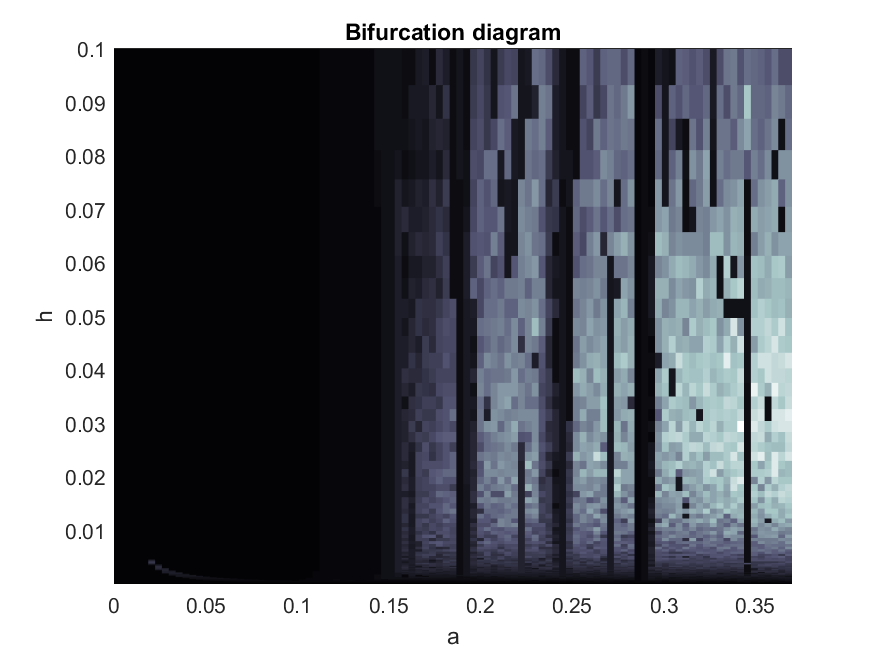
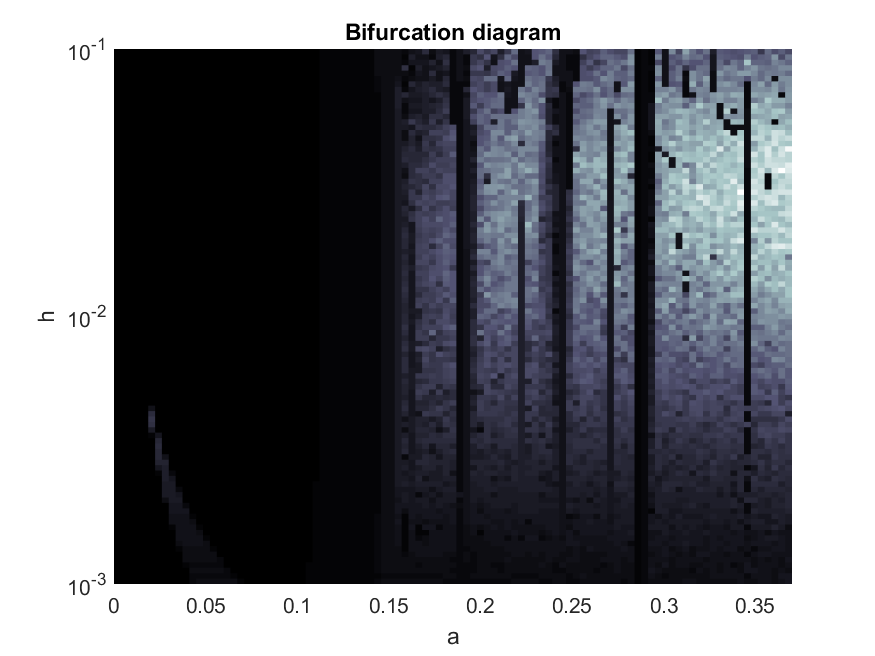
lab5

diff --git a/Non-linear Dynamic Systems Modeling/lab5/lab5/lab5_bd.m b/Non-linear Dynamic Systems Modeling/lab5/lab5/lab5_bd.m
@@ -23,7 +23,7 @@ c_min = 1;
 c_max = 10;
 c_step = (c_max - c_min) / (num_of_p_points - 1);
 
-min_h_pow = -4;
+min_h_pow = -3;
 max_h_pow = -1;
 h_pow_step = (max_h_pow - min_h_pow) / (num_of_p_points - 1);
 
@@ -34,74 +34,74 @@ a_array = a_min : a_step : a_max;
 b_array = b_min : b_step : b_max;
 c_array = c_min : c_step : c_max;
 
-
-figures = cell(length(funs), 1);
-
-for m = 1 : length(funs)
-    fun = funs{m};
-    
-    BIF = zeros(length(a_array), length(b_array));
-    for i = 1 : length(a_array)
-        for j = 1 : length(b_array)
-            n = max_time / h;
-            X = fun(X0, n, h, a_array(i), b_array(j), c);
-            start_index = round(9 * length(X) / 10);
-            pks = findpeaks(X(start_index:length(X), 1));
-            if (~isempty(pks))
-                BIF(i,j) = max(dbscan(pks, 0.1, 1));    % Number of clusters. If no peaks, then 0
-            end
-        end
-    end
-    
-    figure
-    s = pcolor(a_array, b_array, BIF');
-    xlabel('a')
-    ylabel('b')
-    title('Bifurcation diagram')
-    s.EdgeColor = 'none';
-    colormap('bone')
-
-    figures{m} = gcf;
-end
-
-saveas(figures{1}, 'bif_euler_ab.png')
-saveas(figures{2}, 'bif_midpoint_ab.png')
-saveas(figures{3}, 'bif_cd_ab.png')
-
-
-figures = cell(length(funs), 1);
-
-for m = 1 : length(funs)
-    fun = funs{m};
-    
-    BIF = zeros(length(a_array), length(c_array));
-    for i = 1 : length(a_array)
-        for j = 1 : length(c_array)
-            n = max_time / h;
-            X = fun(X0, n, h, a_array(i), b, c_array(j));
-            start_index = round(9 * length(X) / 10);
-            pks = findpeaks(X(start_index:length(X), 1));
-            if (~isempty(pks))
-                BIF(i,j) = max(dbscan(pks, 0.1, 1));    % Number of clusters. If no peaks, then 0
-            end
-        end
-    end
-    
-    figure
-    s = pcolor(a_array, c_array, BIF');
-    xlabel('a')
-    ylabel('c')
-    title('Bifurcation diagram')
-    s.EdgeColor = 'none';
-    colormap('bone')
-
-    figures{m} = gcf;
-end
-
-saveas(figures{1}, 'bif_euler_ac.png')
-saveas(figures{2}, 'bif_midpoint_ac.png')
-saveas(figures{3}, 'bif_cd_ac.png')
-
+% 
+% figures = cell(length(funs), 1);
+% 
+% for m = 1 : length(funs)
+%     fun = funs{m};
+% 
+%     BIF = zeros(length(a_array), length(b_array));
+%     for i = 1 : length(a_array)
+%         for j = 1 : length(b_array)
+%             n = max_time / h;
+%             X = fun(X0, n, h, a_array(i), b_array(j), c);
+%             start_index = round(9 * length(X) / 10);
+%             pks = findpeaks(X(start_index:length(X), 1));
+%             if (~isempty(pks))
+%                 BIF(i,j) = max(dbscan(pks, 0.1, 1));    % Number of clusters. If no peaks, then 0
+%             end
+%         end
+%     end
+% 
+%     figure
+%     s = pcolor(a_array, b_array, BIF');
+%     xlabel('a')
+%     ylabel('b')
+%     title('Bifurcation diagram')
+%     s.EdgeColor = 'none';
+%     colormap('bone')
+% 
+%     figures{m} = gcf;
+% end
+% 
+% saveas(figures{1}, 'bif_euler_ab.png')
+% saveas(figures{2}, 'bif_midpoint_ab.png')
+% saveas(figures{3}, 'bif_cd_ab.png')
+% 
+% 
+% figures = cell(length(funs), 1);
+% 
+% for m = 1 : length(funs)
+%     fun = funs{m};
+% 
+%     BIF = zeros(length(a_array), length(c_array));
+%     for i = 1 : length(a_array)
+%         for j = 1 : length(c_array)
+%             n = max_time / h;
+%             X = fun(X0, n, h, a_array(i), b, c_array(j));
+%             start_index = round(9 * length(X) / 10);
+%             pks = findpeaks(X(start_index:length(X), 1));
+%             if (~isempty(pks))
+%                 BIF(i,j) = max(dbscan(pks, 0.1, 1));    % Number of clusters. If no peaks, then 0
+%             end
+%         end
+%     end
+% 
+%     figure
+%     s = pcolor(a_array, c_array, BIF');
+%     xlabel('a')
+%     ylabel('c')
+%     title('Bifurcation diagram')
+%     s.EdgeColor = 'none';
+%     colormap('bone')
+% 
+%     figures{m} = gcf;
+% end
+% 
+% saveas(figures{1}, 'bif_euler_ac.png')
+% saveas(figures{2}, 'bif_midpoint_ac.png')
+% saveas(figures{3}, 'bif_cd_ac.png')
+% 
 
 figures = cell(length(funs), 1);
 
@@ -125,6 +125,7 @@ for m = 1 : length(funs)
     s = pcolor(a_array, h_array, BIF');
     xlabel('a')
     ylabel('h')
+    yscale('log')
     title('Bifurcation diagram')
     s.EdgeColor = 'none';
     colormap('bone')

diff --git a/Non-linear Dynamic Systems Modeling/lab5/lab5/lab5_lle.m b/Non-linear Dynamic Systems Modeling/lab5/lab5/lab5_lle.m
@@ -27,7 +27,7 @@ c_min = 1;
 c_max = 10;
 c_step = (c_max - c_min) / (num_of_p_points - 1);
 
-min_h_pow = -4;
+min_h_pow = -3;
 max_h_pow = -1;
 h_pow_step = (max_h_pow - min_h_pow) / (num_of_p_points - 1);
 
@@ -68,33 +68,33 @@ c_array = c_min : c_step : c_max;
 % saveas(figures{3}, 'lle_cd_ab.png')
 
 
-figures = cell(length(funs), 1);
-
-for m = 1 : length(funs)
-    fun = funs{m};
-    
-    LLE = zeros(length(a_array), length(c_array));
-    for i = 1 : length(a_array)
-        for j = 1 : length(c_array)
-            lle = find_lle(h, x, max_time, interval_time, eps, fun, a_array(i), b, c_array(j));
-            LLE(i,j) = lle;
-        end
-    end
-    
-    figure
-    s = pcolor(a_array, c_array, LLE');
-    xlabel('a')
-    ylabel('c')
-    title('LLE')
-    s.EdgeColor = 'none';
-    colormap('bone')
-
-    figures{m} = gcf;
-end
-
-saveas(figures{1}, 'lle_euler_ac.png')
-saveas(figures{2}, 'lle_midpoint_ac.png')
-saveas(figures{3}, 'lle_cd_ac.png')
+% figures = cell(length(funs), 1);
+% 
+% for m = 1 : length(funs)
+%     fun = funs{m};
+% 
+%     LLE = zeros(length(a_array), length(c_array));
+%     for i = 1 : length(a_array)
+%         for j = 1 : length(c_array)
+%             lle = find_lle(h, x, max_time, interval_time, eps, fun, a_array(i), b, c_array(j));
+%             LLE(i,j) = lle;
+%         end
+%     end
+% 
+%     figure
+%     s = pcolor(a_array, c_array, LLE');
+%     xlabel('a')
+%     ylabel('c')
+%     title('LLE')
+%     s.EdgeColor = 'none';
+%     colormap('bone')
+% 
+%     figures{m} = gcf;
+% end
+% 
+% saveas(figures{1}, 'lle_euler_ac.png')
+% saveas(figures{2}, 'lle_midpoint_ac.png')
+% saveas(figures{3}, 'lle_cd_ac.png')
 
 
 figures = cell(length(funs), 1);
@@ -114,6 +114,7 @@ for m = 1 : length(funs)
     s = pcolor(a_array, h_array, LLE');
     xlabel('a')
     ylabel('h')
+    yscale('log')
     title('LLE')
     s.EdgeColor = 'none';
     colormap('bone')
